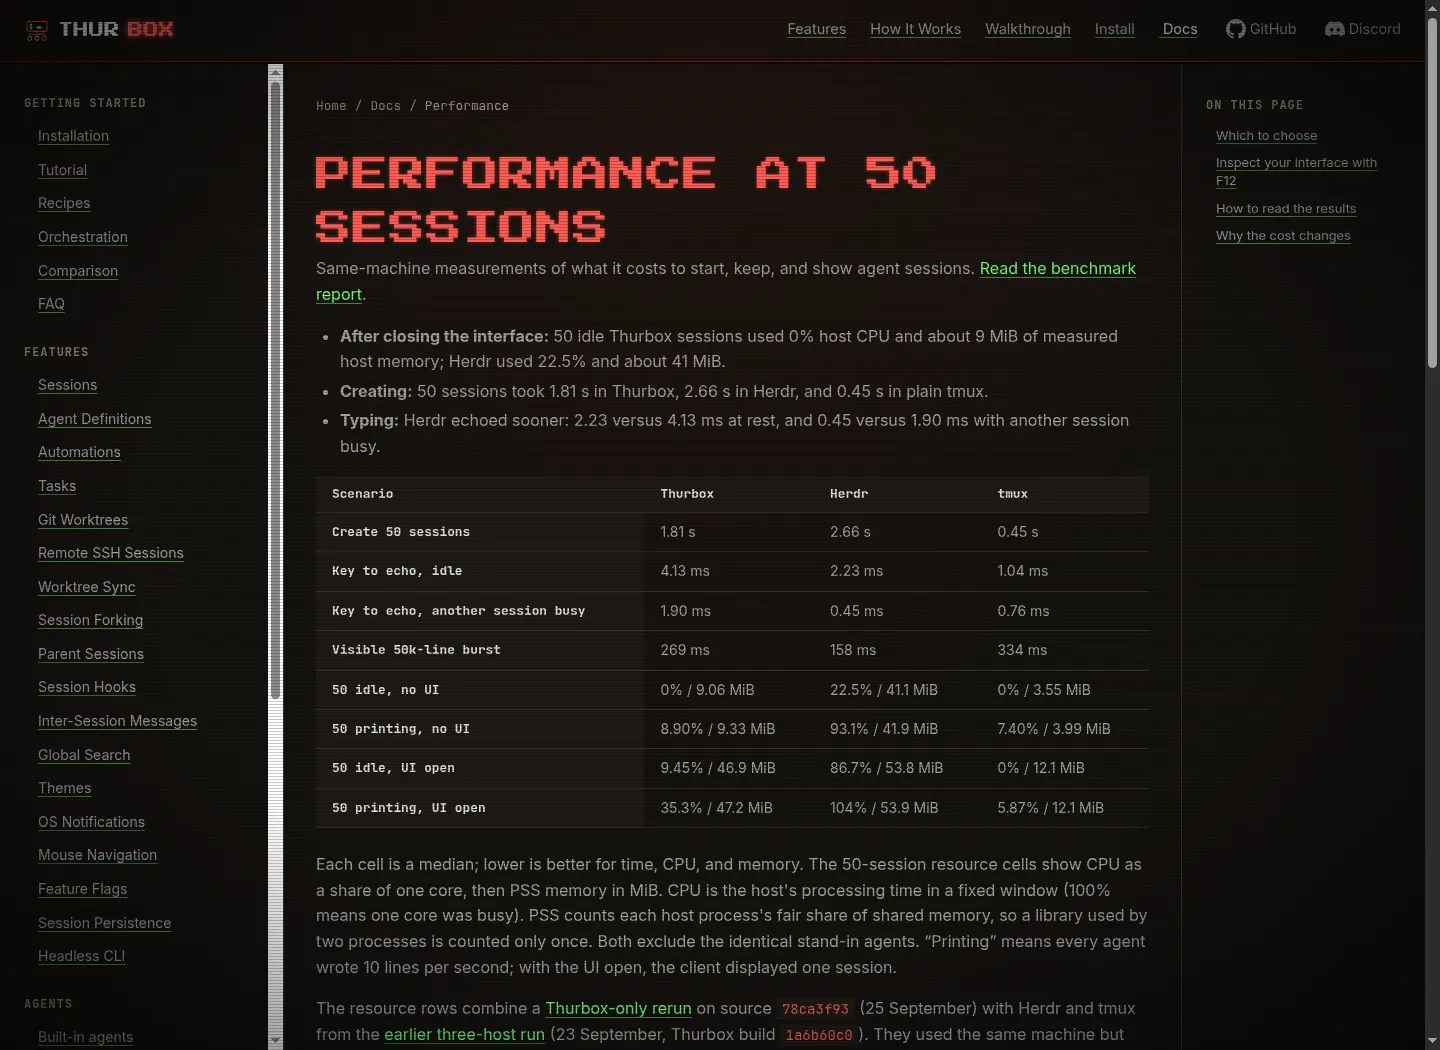
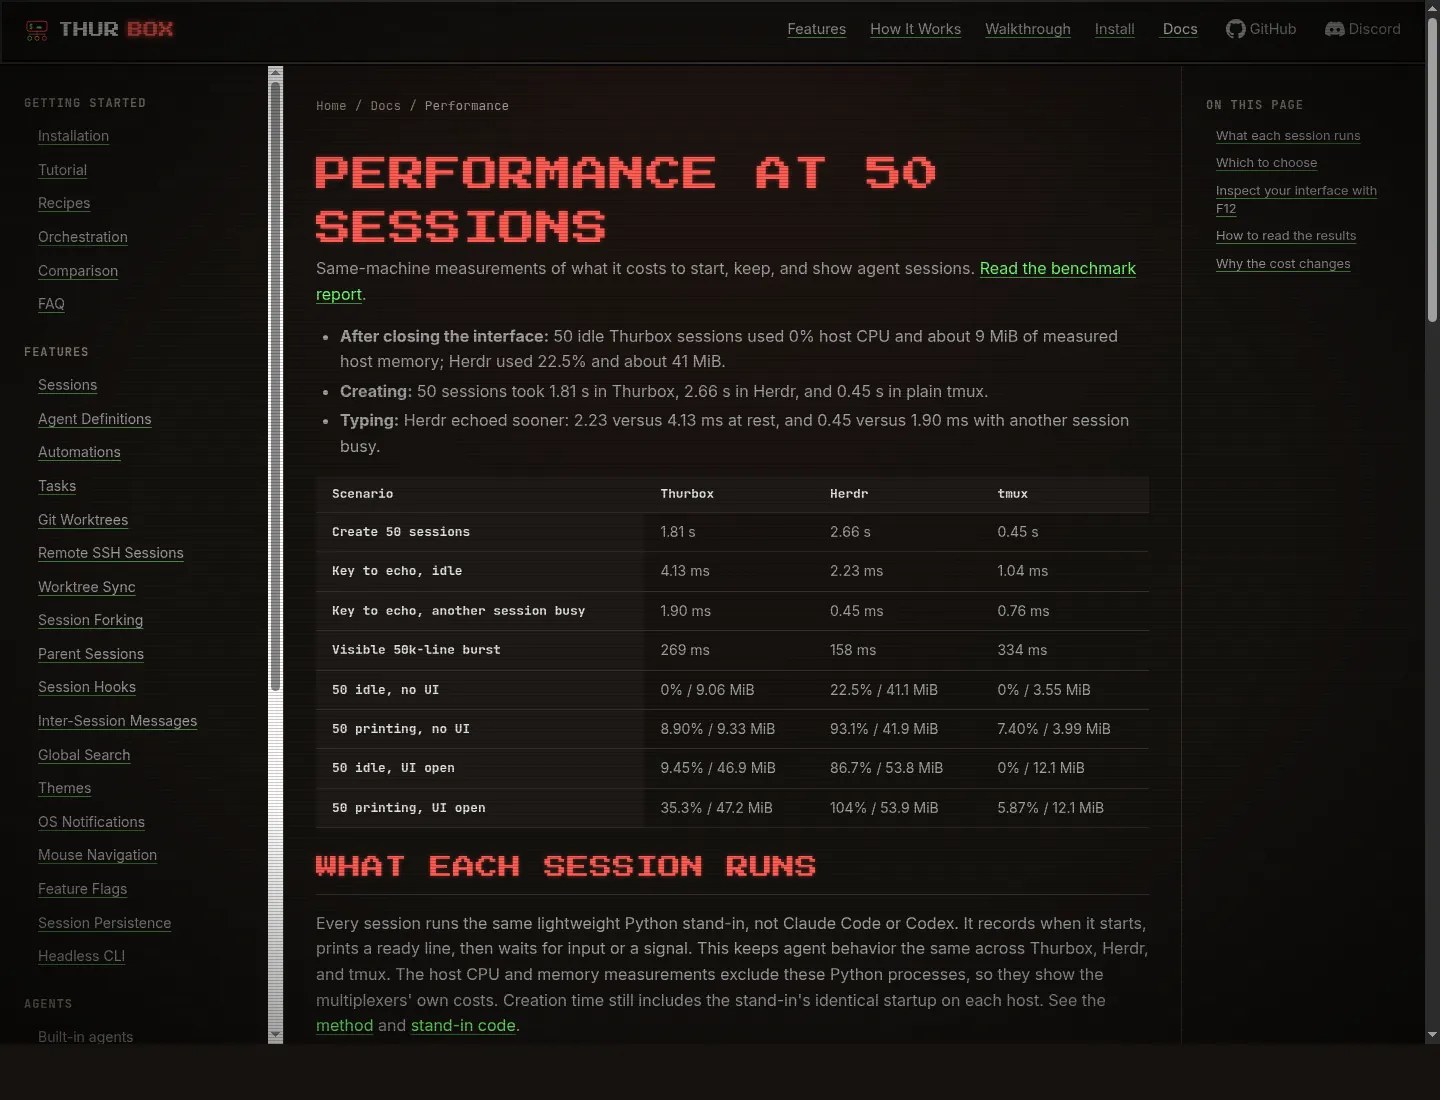
docs(docs): explain benchmark session workloads

diff --git a/website/docs/performance.html b/website/docs/performance.html
@@ -76,13 +76,41 @@ breadcrumb: 'Performance'
     </tr>
   </tbody>
 </table>
+<h2 id="workload">
+  What each session runs
+  <a href="#workload" class="heading-anchor">#</a>
+</h2>
+<p>
+  Every session runs the same lightweight Python stand-in, not Claude Code or Codex. It records
+  when it starts, prints a ready line, then waits for input or a signal. This keeps agent behavior
+  the same across Thurbox, Herdr, and tmux. The host CPU and memory measurements exclude these
+  Python processes, so they show the multiplexers' own costs. Creation time still includes the
+  stand-in's identical startup on each host. See the
+  <a href="https://github.com/Thurbeen/thurbox/blob/30acd3d81f8568f3a4a969cfb6793fa446133987/docs/BENCHMARK-MULTIPLEXERS.md#method">method</a>
+  and <a href="https://github.com/Thurbeen/thurbox/blob/30acd3d81f8568f3a4a969cfb6793fa446133987/scripts/bench/agent.py">stand-in code</a>.
+</p>
+<ul>
+  <li><strong>Create 50:</strong> starts 50 stand-ins one after another, with no client attached.</li>
+  <li>
+    <strong>Idle or printing:</strong> 50 stand-ins wait quietly or each print 10 lines per second.
+    &ldquo;No UI&rdquo; means no client is attached. &ldquo;UI open&rdquo; means one client shows
+    session 1.
+  </li>
+  <li>
+    <strong>Typing:</strong> one attached client shows session 1 of two. Each typed byte makes its
+    stand-in redraw a four-letter token in place. In the busy row, off-screen session 2 emits
+    repeated bursts.
+  </li>
+  <li>
+    <strong>Burst:</strong> one stand-in prints 50,000 lines of about 107 bytes each as fast as its
+    terminal accepts them; one attached client shows when the final marker appears.
+  </li>
+</ul>
 <p>
   Each cell is a median; lower is better for time, CPU, and memory. The 50-session resource cells
   show CPU as a share of one core, then PSS memory in MiB. CPU is the host's processing time in a
   fixed window (100% means one core was busy). PSS counts each host process's fair share of shared
-  memory, so a library used by two processes is counted only once. Both exclude the identical
-  stand-in agents. &ldquo;Printing&rdquo; means every agent wrote 10 lines per second; with the UI
-  open, the client displayed one session.
+  memory, so a library used by two processes is counted only once.
 </p>
 <p>
   The resource rows combine a
